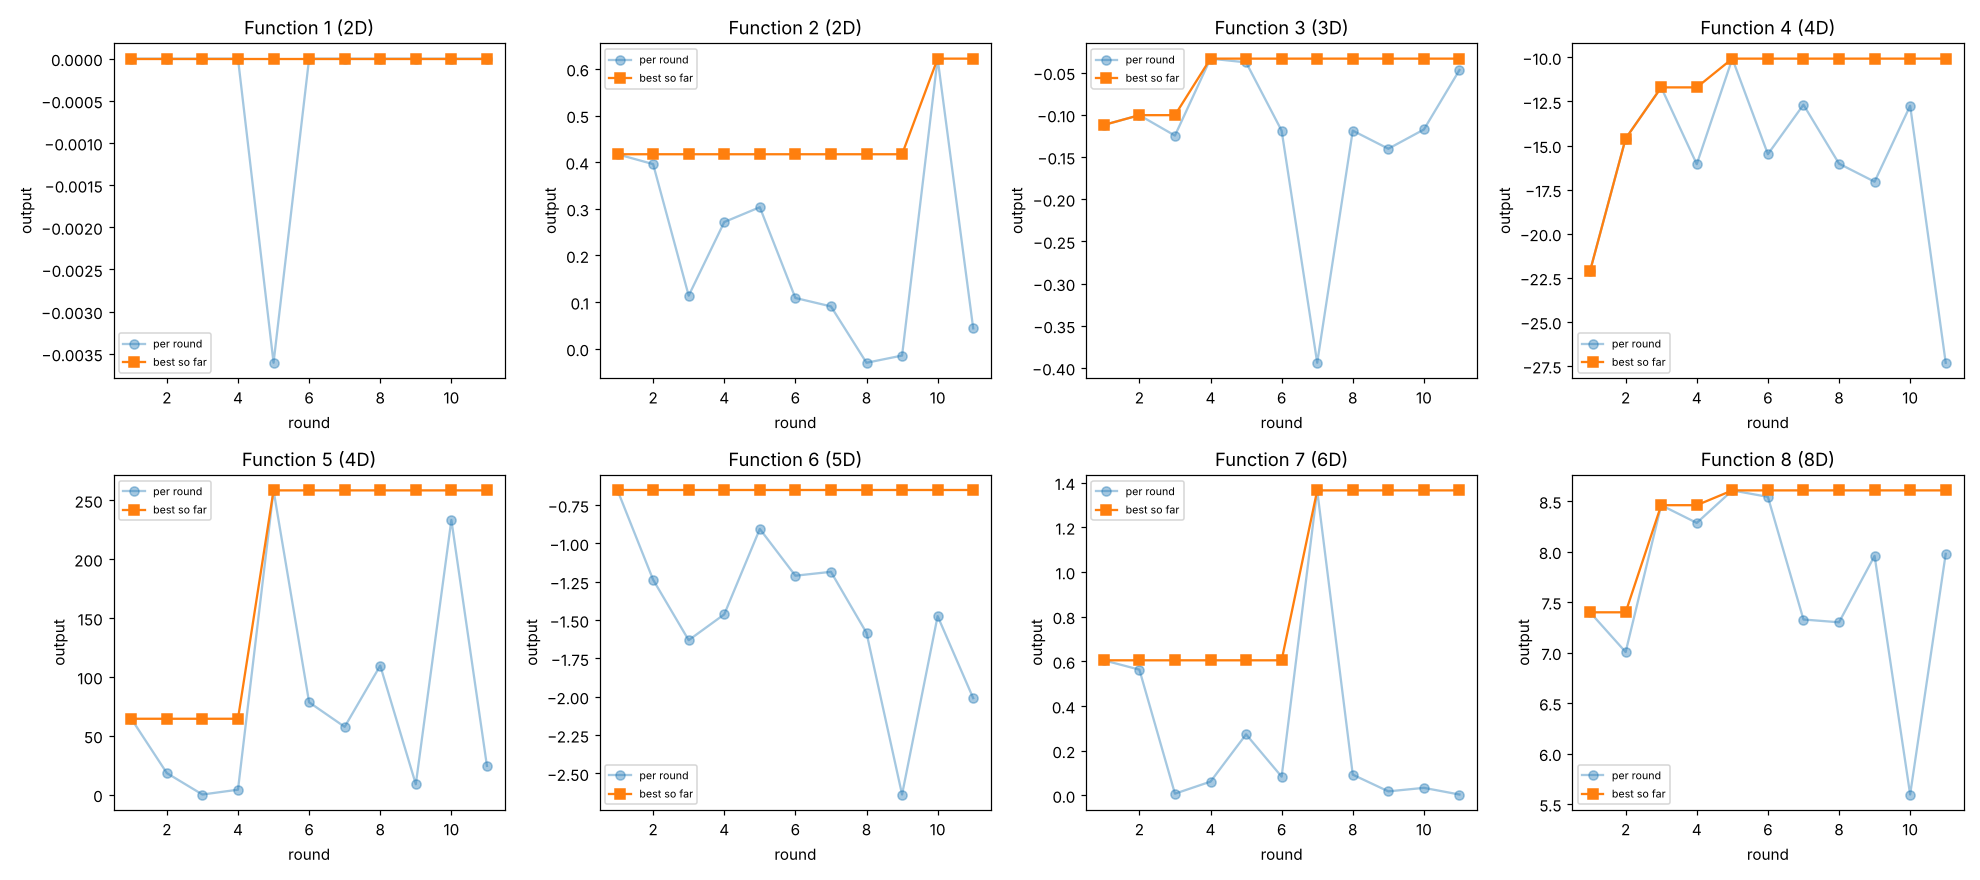
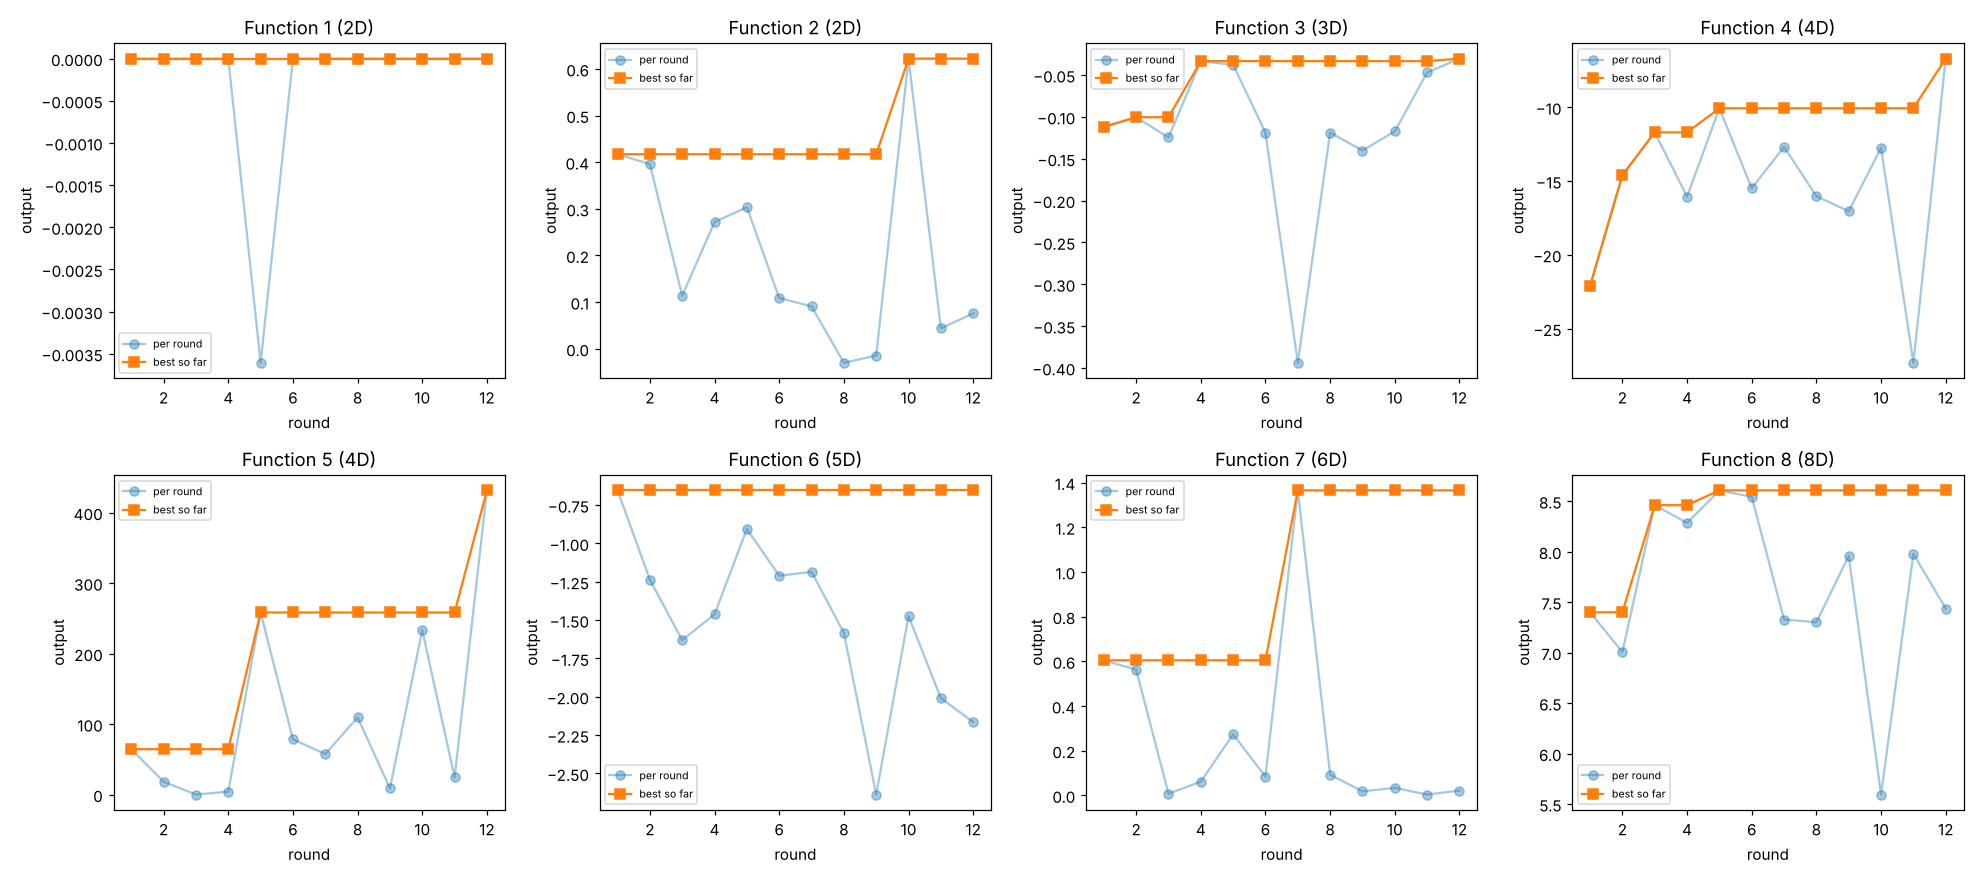
Add round 12 results
Extend the query history to 12 rounds. Round 12 set new bests for F3, F4 and
especially F5 (431.6, up from 258). Update the model card results table and
narrative and the datasheet final-point counts (initial + 12) accordingly, and
refresh the progress plot.

diff --git a/model-card.md b/model-card.md
@@ -70,21 +70,23 @@ baseline is the first recorded round, and the gain is measured against that:
 |----------|-----|---------|-------------|-----------|------|
 | 1 | 2 | 1.3e-79 | 7.72e-16 | 3 | ≈ 0 (noise near zero throughout) |
 | 2 | 2 | 0.416974 | 0.621969 | 10 | +0.204995 |
-| 3 | 3 | −0.112038 | −0.033408 | 4 | +0.078630 |
-| 4 | 4 | −22.108249 | −10.069644 | 5 | +12.038605 |
-| 5 | 4 | 64.443772 | 258.366405 | 5 | +193.922633 |
+| 3 | 3 | −0.112038 | −0.030400 | 12 | +0.081638 |
+| 4 | 4 | −22.108249 | −6.702153 | 12 | +15.406096 |
+| 5 | 4 | 64.443772 | 431.609302 | 12 | +367.165530 |
 | 6 | 5 | −0.653772 | −0.653772 | 1 | 0 (best at round 1, never beaten) |
 | 7 | 6 | 0.604432 | 1.364970 | 7 | +0.760538 |
 | 8 | 8 | 7.398726 | 8.606118 | 5 | +1.207392 |
 
-Progress was uneven across the eight functions. F5 was the clear success,
-climbing from about 64 to 258 at round 5, with wild round-to-round swings (down
-to 0.11) that mark a sharp peak the search kept crossing rather than settling on.
-F4 made the next largest move, from about −22 to −10. F7 jumped to its best at
-round 7, well clear of every other query, and F8 rose modestly to a high plateau
-around 8.6. F2 is worth noting: it drifted for several rounds and then broke
-upward to 0.62 at round 10, a reminder that a quiet run can still improve late.
-F6 is the honest counter-example, its best came at the very first round and
+Progress was uneven across the eight functions, and the latest round (12) was a
+strong one. F5 was the clear success, and round 12 pushed it furthest, from about
+64 up to 432, with wild round-to-round swings along the way (down to 0.11) that
+mark a sharp peak the search kept crossing rather than settling on. F4 made its
+best move in the same round, up from about −22 to −6.7. F3 also edged to a new
+best at round 12, though it stayed close to zero throughout. F7 jumped to its
+best at round 7, well clear of every other query, and F8 rose modestly to a high
+plateau around 8.6. F2 is worth noting: it drifted for several rounds and then
+broke upward to 0.62 at round 10, a reminder that a quiet run can still improve
+late. F6 is the honest counter-example, its best came at the very first round and
 nothing after it improved, so later queries effectively just confirmed that.
 Function 1 never found a real signal at all, every reading hovering around zero,
 its peak evidently too narrow for the sampling to resolve, which matches the

diff --git a/datasheet.md b/datasheet.md
@@ -19,19 +19,19 @@ the author's own.
 
 Paired coordinate vectors and scalar outputs for eight functions of increasing
 dimensionality. Each function starts with a set of initial observations provided
-by the programme and gained 11 queried points over the recorded rounds, one per
+by the programme and gained 12 queried points over the recorded rounds, one per
 round:
 
 | Function | Dimensions | Initial points | Final points |
 |----------|------------|----------------|--------------|
-| 1 | 2 | 10 | 21 |
-| 2 | 2 | 10 | 21 |
-| 3 | 3 | 15 | 26 |
-| 4 | 4 | 30 | 41 |
-| 5 | 4 | 20 | 31 |
-| 6 | 5 | 20 | 31 |
-| 7 | 6 | 30 | 41 |
-| 8 | 8 | 40 | 51 |
+| 1 | 2 | 10 | 22 |
+| 2 | 2 | 10 | 22 |
+| 3 | 3 | 15 | 27 |
+| 4 | 4 | 30 | 42 |
+| 5 | 4 | 20 | 32 |
+| 6 | 5 | 20 | 32 |
+| 7 | 6 | 30 | 42 |
+| 8 | 8 | 40 | 52 |
 
 The initial observations were provided by the programme as paired NumPy arrays
 per function (`initial_inputs.npy` of shape `(N, D)` and `initial_outputs.npy` of
